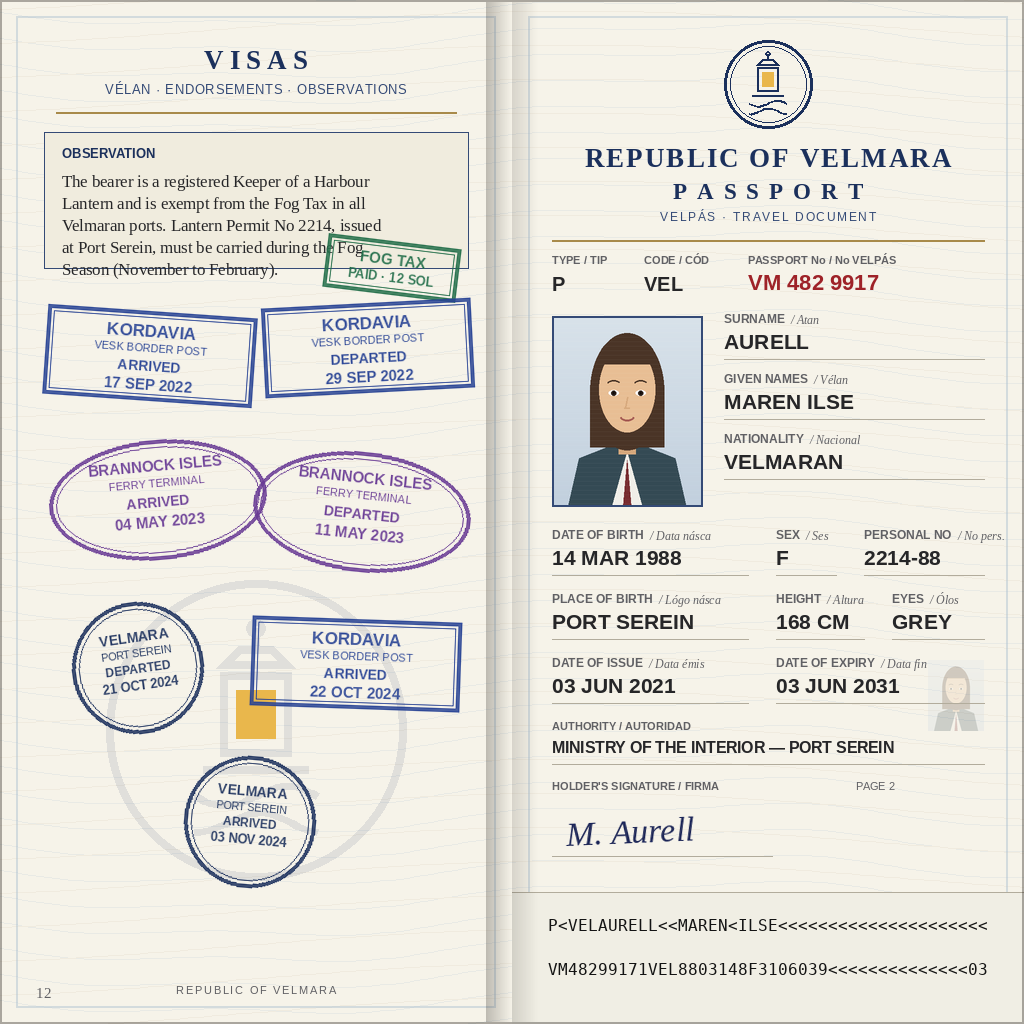
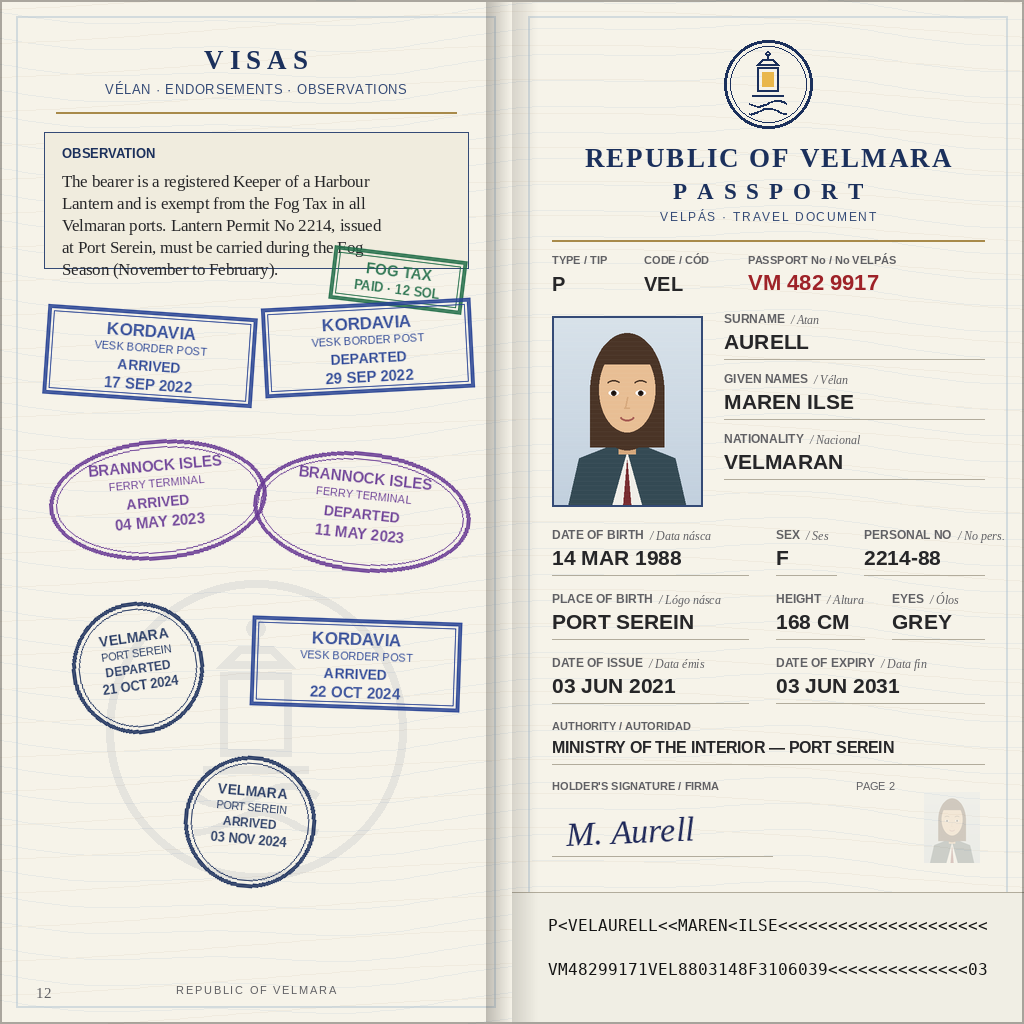
Polish: outline-only watermark, ghost image beside signature, fee stamp clear of the endorsement text

diff --git a/render.py b/render.py
@@ -107,7 +107,7 @@ def mrz_lines():
 
 
 # ---------------------------------------------------------------- emblem
-def draw_emblem(draw, cx, cy, r, colour=NAVY, lw=3):
+def draw_emblem(draw, cx, cy, r, colour=NAVY, lw=3, fill_window=True):
     """The arms of Velmara: a harbour lantern above two waves, in a ring."""
     draw.ellipse([cx - r, cy - r, cx + r, cy + r], outline=colour, width=lw)
     draw.ellipse([cx - r + 6, cy - r + 6, cx + r - 6, cy + r - 6],
@@ -123,8 +123,9 @@ def draw_emblem(draw, cx, cy, r, colour=NAVY, lw=3):
     # lantern body with a lit window
     draw.rectangle([cx - 8 * s, cy - 13 * s, cx + 8 * s, cy + 6 * s],
                    outline=colour, width=max(2, int(2 * s)))
-    draw.rectangle([cx - 4.5 * s, cy - 9 * s, cx + 4.5 * s, cy + 2 * s],
-                   fill=(233, 183, 76))
+    if fill_window:
+        draw.rectangle([cx - 4.5 * s, cy - 9 * s, cx + 4.5 * s, cy + 2 * s],
+                       fill=(233, 183, 76))
     draw.line([cx - 12 * s, cy + 9 * s, cx + 12 * s, cy + 9 * s],
               fill=colour, width=max(2, int(2 * s)))
     # waves
@@ -248,7 +249,8 @@ def left_page():
     # faint printed frame and a watermark emblem
     d.rectangle([16, 16, PAGE - 17, H - 17], outline=GUARD + (120,), width=2)
     wm = Image.new("RGBA", (340, 340), (0, 0, 0, 0))
-    draw_emblem(ImageDraw.Draw(wm), 170, 170, 150, colour=NAVY + (26,), lw=8)
+    draw_emblem(ImageDraw.Draw(wm), 170, 170, 150, colour=NAVY + (20,), lw=8,
+                fill_window=False)
     pg.alpha_composite(wm, (86, 560))
 
     text_c(d, PAGE // 2, 44, "VISAS", font(SERIF_B, 27), NAVY, spacing=6)
@@ -274,7 +276,7 @@ def left_page():
     # small green fee stamp overlapping the box corner
     fee = rect_stamp([("FOG TAX", SB(15), 19), ("PAID · 12 SOL", SB(13), 0)],
                      GREEN, w=132, h=52)
-    paste_stamp(pg, fee, 392, 268, -7)
+    paste_stamp(pg, fee, 398, 280, -7)
 
     # entry / exit stamps: one coherent travel history
     kord = [("KORDAVIA", SB(17), 21), ("VESK BORDER POST", SR(11), 16)]
@@ -344,7 +346,7 @@ def right_page():
     d.rectangle([MX, 316, MX + 150, 506], outline=NAVY_SOFT, width=2)
     ghost = draw_portrait().resize((56, 71), Image.LANCZOS).convert("RGBA")
     ghost.putalpha(56)
-    pg.alpha_composite(ghost, (RX - 56, 660))
+    pg.alpha_composite(ghost, (RX - 60, 792))
 
     FX = MX + 172  # fields column, right of the portrait
     FW = RX - FX
